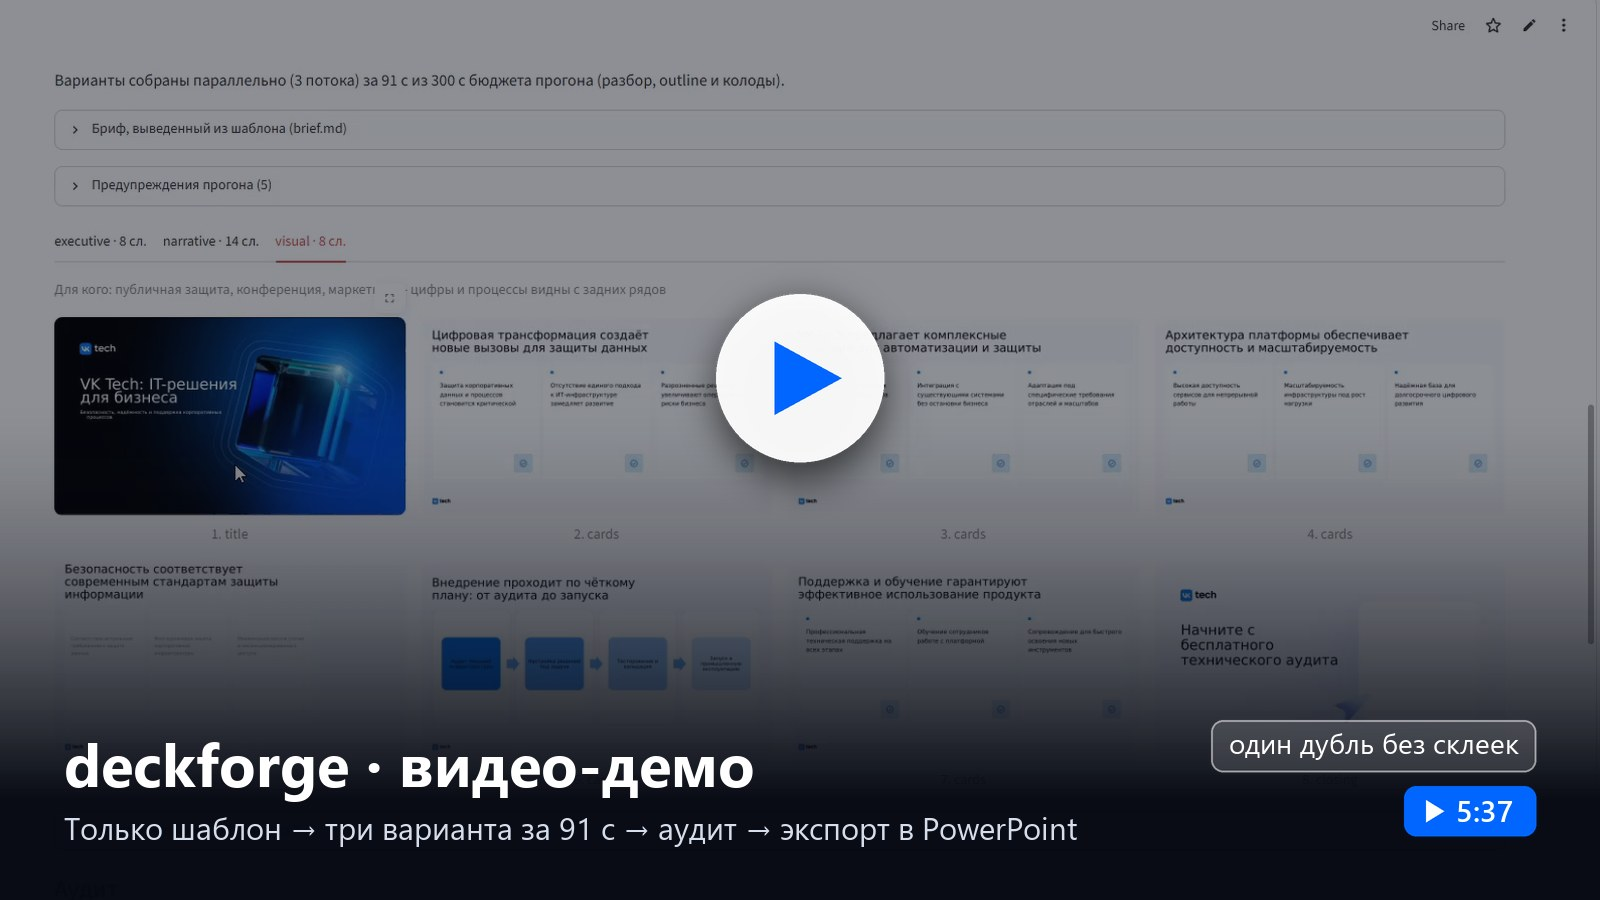
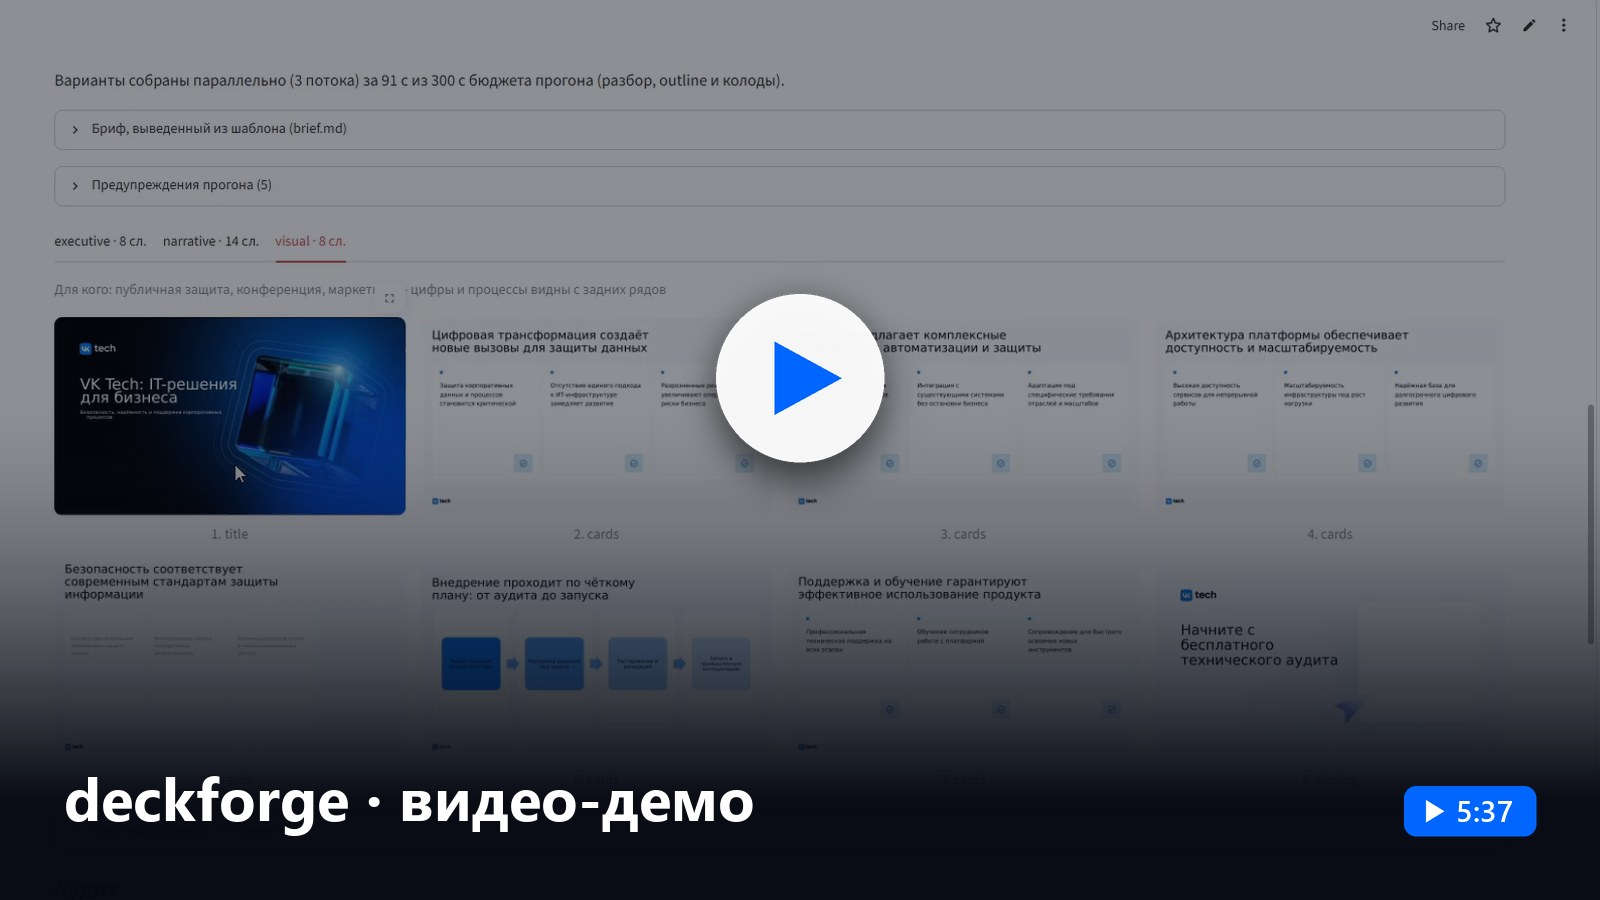
docs: видео-демо — только постер и кнопки, без описания
- README: из раздела «Видео-демо» убраны абзац, таблица таймкодов и ссылка
  на сценарий; alt постера сокращён.
- docs/img/demo_video.jpg: постер без подписи и плашки «один дубль без склеек».

Changed region(s): [[0.0312, 0.8089, 0.6875, 0.9333], [0.75, 0.7778, 0.9688, 0.8711]]

diff --git a/README.md b/README.md
@@ -18,24 +18,12 @@
 ## Видео-демо
 
 <p align="center">
-  <a href="https://cloud.mail.ru/public/FRoE/fubzUBvYV"><img src="docs/img/demo_video.jpg" alt="Видео-демо deckforge, 5:37: только шаблон → три варианта за 91 с → аудит → экспорт в PowerPoint" width="100%"></a>
+  <a href="https://cloud.mail.ru/public/FRoE/fubzUBvYV"><img src="docs/img/demo_video.jpg" alt="Видео-демо deckforge, 5:37" width="100%"></a>
 </p>
 <p align="center">
   <b><a href="https://cloud.mail.ru/public/FRoE/fubzUBvYV">▶ Смотреть онлайн</a></b> — Облако Mail.ru &nbsp;·&nbsp;
-  <a href="https://github.com/kireev-duty/deckforge/releases/download/v0.1.4/deckforge-demo.mp4">⬇ Скачать .mp4</a> — GitHub Release, 24 МБ &nbsp;·&nbsp;
-  <a href="docs/DEMO_VIDEO.md">Сценарий видео</a>
+  <a href="https://github.com/kireev-duty/deckforge/releases/download/v0.1.4/deckforge-demo.mp4">⬇ Скачать .mp4</a> — GitHub Release, 24 МБ
 </p>
-
-Один дубль без склеек на публичном [демо-стенде](https://deckforge.streamlit.app). На входе только шаблон VK Tech — без брифа и файлов: бриф сервис выводит из самого шаблона. Три варианта вёрстки собираются параллельно за 91 с из 300 с бюджета.
-
-| Время | Что в кадре |
-|---|---|
-| 0:00 | шаблон как дизайн-система: палитра с ролями, шрифты, шкала кеглей, образцы по архетипам |
-| 0:40 | параметры и пять режимов входа — от репозитория до «Только шаблон» |
-| 1:36 | запуск «Сгенерировать варианты», прогресс по шагам |
-| 3:07 | три варианта: таблица сравнения, превью слайдов |
-| 4:00 | аудит: метрики, фиксы по выбору, подсветка находки на слайде |
-| 4:50 | экспорт: .pptx в PowerPoint с текстом выступления в заметках, PDF |
 
 ## Что умеет
 
